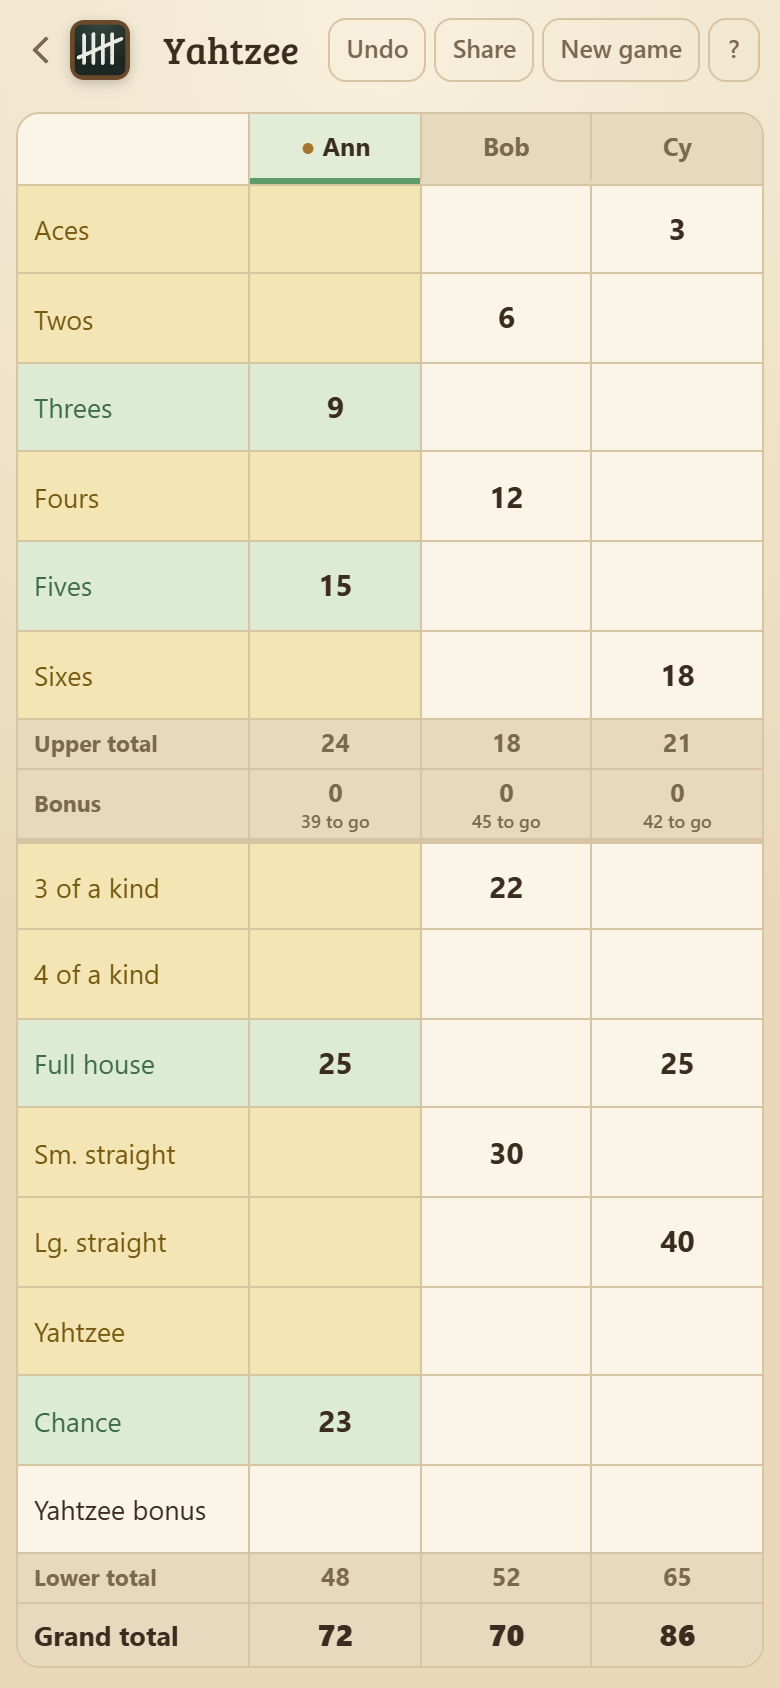
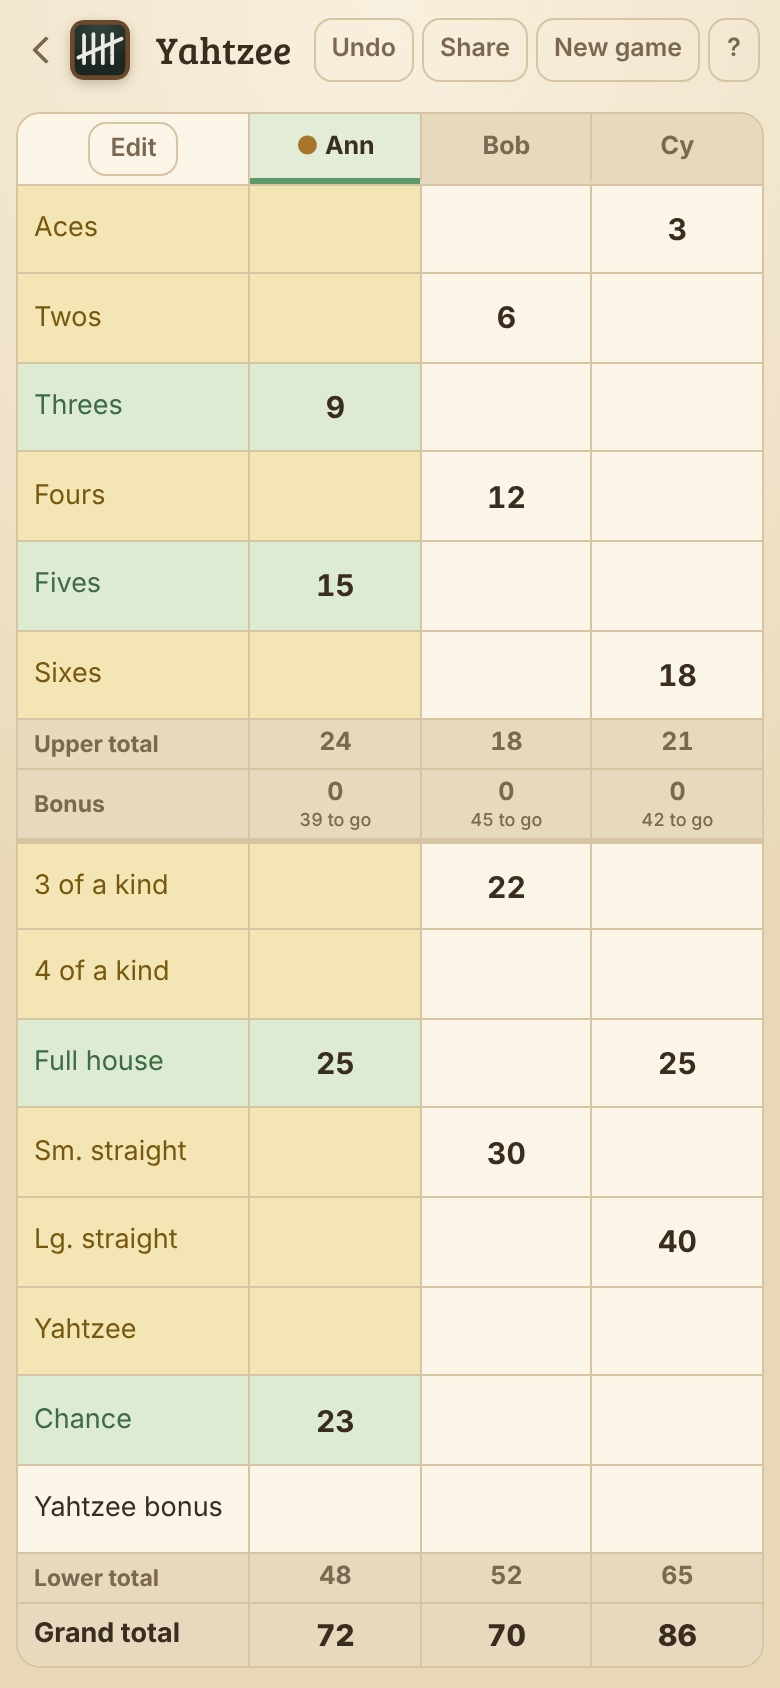
Yahtzee: players put in order at the setup, and moved or renamed mid-game
The setup's names are now a list with a grip on each, as in the Builder,
so the order of play can be set before starting; You are goes with its
name. Once a game has started, Edit in the sheet's top-left corner opens
the Edit game sheet. Moving a player moves everything kept by their place:
their boxes, extra Yahtzees, Undo's list, the column picked out and who
You are. The turn stays with whoever had it and passes on in the new
order. A shared game can't be edited, since the other phones know the
players by their place.

The profile was also always told the first player was you; it now gets
whoever was picked under You are.

Claude-Session: https://claude.ai/code/session_01CaxhvmkvV9J6Mab9YTVtfY

diff --git a/public/yahtzee/app.js b/public/yahtzee/app.js
@@ -149,28 +149,46 @@ function renderYou() {
   SCShare.youAre($('youRow'), names, setupMe, (i) => { setupMe = i; SCShare.rememberMe(i); renderYou(); });
 }
 
+const saveNames = () => { try { localStorage.setItem(NAMES_KEY, JSON.stringify(setupNames)); } catch (e) {} };
+
 function renderSetup() {
   $('pCount').textContent = setupN;
   $('pMinus').disabled = setupN <= 1;
   $('pPlus').disabled = setupN >= MAX_PLAYERS;
-  const box = $('names');
-  box.classList.toggle('one', setupN === 1);
-  box.innerHTML = '';
+  const list = $('names');
+  list.innerHTML = '';
   for (let i = 0; i < setupN; i++) {
+    const li = document.createElement('li');
+    const num = document.createElement('i');
+    num.textContent = `${i + 1}.`;
     const inp = document.createElement('input');
     inp.type = 'text'; inp.maxLength = 14; inp.autocomplete = 'off';
+    inp.className = 'roster-name';
     inp.placeholder = `Player ${i + 1}`;
     inp.value = setupNames[i] || '';
-    inp.addEventListener('input', () => {
-      setupNames[i] = inp.value;
-      try { localStorage.setItem(NAMES_KEY, JSON.stringify(setupNames)); } catch (e) {}
-      renderYou();
-    });
-    box.appendChild(inp);
+    inp.setAttribute('aria-label', `Player ${i + 1}'s name`);
+    inp.addEventListener('input', () => { setupNames[i] = inp.value; saveNames(); renderYou(); });
+    // a grip, to drag the player up or down the list (see /roster.js)
+    li.append(num, inp, SCRoster.grip(`Move ${(setupNames[i] || '').trim() || `Player ${i + 1}`}`));
+    list.appendChild(li);
   }
   renderYou();
   $('resumeBtn').classList.toggle('hidden', !load());
 }
+
+/* The order of the list is the order of play. You are goes with the name
+   it was on; the names kept past tonight's count stay where they are. */
+SCRoster.sortable($('names'), (from, to) => {
+  while (setupNames.length < setupN) setupNames.push('');
+  setupNames.splice(to, 0, setupNames.splice(from, 1)[0]);
+  if (setupMe !== null) {
+    const order = setupNames.map((_, i) => i);
+    order.splice(to, 0, order.splice(from, 1)[0]);
+    setupMe = order.indexOf(setupMe);
+    SCShare.rememberMe(setupMe);
+  }
+  saveNames(); renderSetup();
+});
 
 $('pMinus').onclick = () => { if (setupN > 1) { setupN--; renderSetup(); } };
 $('pPlus').onclick = () => { if (setupN < MAX_PLAYERS) { setupN++; renderSetup(); } };
@@ -228,8 +246,12 @@ function buildSheet() {
   // The rows: the player tiles, then the boxes sharing the height that is
   // left (never under 26px), the totals only as tall as their text.
   sheet.style.gridTemplateRows = ['auto', ...ROWS.map((r) => (r.total ? 'auto' : 'minmax(26px, 1fr)'))].join(' ');
+  // The corner, beside the names: Edit, for the players' order and names,
+  // changed in a sheet of their own (see editGame), as the top bar has no
+  // room left. Someone only watching has no use for it.
+  const edit = SCShare.watching ? '' : '<button class="edit-btn" id="editBtn">Edit</button>';
+  let html = `<div class="corner">${edit}</div>`;
   // a player's tile is just their name: the grand total is at the bottom
-  let html = '<div class="corner"></div>';
   S.names.forEach((name, p) => {
     html += `<button class="ptile" data-p="${p}"><span class="pname">${esc(name)}</span></button>`;
   });
@@ -247,6 +269,7 @@ function buildSheet() {
 }
 
 $('sheet').addEventListener('click', (e) => {
+  if (e.target.closest('#editBtn')) { editGame(); return; }
   const tile = e.target.closest('.ptile');
   // a phone that joined by seat keeps its own column picked out
   if (tile) { if (SCShare.seat() === null) { S.sel = Number(tile.dataset.p); save(); render(); } return; }
@@ -471,6 +494,44 @@ $('entryClose').onclick = closeEntry;
 $('entryOverlay').addEventListener('click', (e) => { if (e.target === $('entryOverlay')) closeEntry(); });
 $('entryEmpty').onclick = () => { setBox(entry.p, entry.id, null); done('Box emptied'); };
 
+/* ---------------- editing the game ----------------
+
+   Players can be put in another order, and renamed, once the game has
+   started (see /editgame.js). Everything the game keeps per player is kept
+   by their place, so all of it moves together: their boxes, their extra
+   Yahtzees, Undo's list, whose turn it is, the column picked out and who
+   You are. The turn stays with whoever had it, and passes on in the new
+   order; a game shared with other phones stays as it is, as they know the
+   players by their place too. */
+
+async function editGame() {
+  const locked = SCStore.get(S.id)?.share
+    ? 'This game is shared with other phones, which know the players by their place, so the players can’t be moved or renamed now.'
+    : null;
+  const got = await SCEditGame.open({ names: S.names, locked });
+  if (!got) return;
+  const moved = got.order.some((from, i) => from !== i);
+  const renamed = got.names.some((name, i) => name !== S.names[got.order[i]]);
+  if (!moved && !renamed) return;
+  reorder(got.order);
+  S.names = got.names;
+  save(); buildSheet(); render();
+  flash(moved ? `${S.names[S.cur]}'s turn` : 'Names changed');
+}
+
+// order[i] is the place the player now i-th had before.
+function reorder(order) {
+  const at = [];
+  order.forEach((from, i) => { at[from] = i; });
+  const where = (p) => (Number.isInteger(p) ? at[p] : p);
+  S.cells = order.map((from) => S.cells[from]);
+  S.ybonus = order.map((from) => S.ybonus[from]);
+  S.log = S.log.map((e) => ({ ...e, p: where(e.p), cur: where(e.cur), sel: where(e.sel) }));
+  S.cur = where(S.cur);
+  S.sel = where(S.sel);
+  S.me = where(S.me);
+}
+
 /* ---------------- undo, new game ---------------- */
 
 $('undoBtn').onclick = () => {
@@ -573,7 +634,8 @@ function toPayload() {
     game_type: 'yahtzee',
     config: { players: S.names.length },
     started_at: S.startedAt,
-    me_idx: 0,
+    // who You are, picked at the setup; No one leaves it to the first player
+    me_idx: Number.isInteger(S.me) ? S.me : 0,
     ended_at: S.over ? Date.now() : null,
     winner_idx: S.over && winners.length === 1 ? winners[0] : null,
     players: S.names.map((name, idx) => ({ idx, name })),

diff --git a/public/yahtzee/index.html b/public/yahtzee/index.html
@@ -34,11 +34,11 @@
 <link rel="preconnect" href="https://fonts.googleapis.com">
 <link rel="preconnect" href="https://fonts.gstatic.com" crossorigin>
 <link rel="stylesheet" href="https://fonts.googleapis.com/css2?family=Fredericka+the+Great&family=Josefin+Sans:wght@400;600;700&family=Bree+Serif&family=Kalam:wght@400;700&display=swap">
-<link rel="stylesheet" href="../shared.css?v=39">
+<link rel="stylesheet" href="../shared.css?v=40">
 <!-- the room this game is played in (data-room on the body), with any
      adjustments of this game's own at the top of style.css -->
 <link rel="stylesheet" href="../themes.css?v=7">
-<link rel="stylesheet" href="style.css?v=15">
+<link rel="stylesheet" href="style.css?v=16">
 </head>
 <body data-room="living" data-game="yahtzee">
 
@@ -66,7 +66,9 @@
         <button type="button" class="step" id="pPlus" aria-label="More players">+</button>
       </div>
     </div>
-    <div id="names" class="names"></div>
+    <!-- the order of the list is the order of play: each name has a grip
+         to drag it by (see /roster.js; the .roster styles are in /shared.css) -->
+    <ol id="names" class="roster"></ol>
   </div>
 
   <div class="card">
@@ -151,7 +153,9 @@
 <script src="/store.js?v=3"></script>
 <script src="/share.js?v=12"></script>
 <script src="/cloud.js?v=3"></script>
-<script src="app.js?v=22"></script>
+<script src="/roster.js?v=1"></script>
+<script src="/editgame.js?v=1"></script>
+<script src="app.js?v=23"></script>
 <script src="/pwa.js?v=1" defer></script>
 </body>
 </html>

diff --git a/public/yahtzee/style.css b/public/yahtzee/style.css
@@ -41,9 +41,7 @@ input::-webkit-outer-spin-button,input::-webkit-inner-spin-button{-webkit-appear
 .step{width:44px;height:40px;border-radius:10px;font-size:22px;font-weight:700;background:var(--bg2);border:1px solid var(--line)}
 .step:active{border-color:var(--green)}
 .step:disabled{opacity:.35}
-.names{display:grid;grid-template-columns:1fr 1fr;gap:6px}
-.names input{padding:10px;font-size:15px}
-.names.one{grid-template-columns:1fr}
+#names{margin-top:4px}
 
 /* ---------- The sheet ----------
    A grid like the paper one: box names down the left, a column per player.
@@ -76,7 +74,10 @@ body.playing .acct{display:none}
 .corner{background:var(--card);border-left:none}
 /* the box names stay put while the player columns scroll under them */
 .lab,.corner{position:sticky;left:0;z-index:1;box-shadow:1px 0 0 var(--line)}
-.corner{z-index:3}
+.corner{z-index:3;display:flex;align-items:center;justify-content:center}
+/* Edit, in the corner: a quiet button like the top bar's */
+.edit-btn{font-size:12.5px;font-weight:600;color:var(--dim);border:1px solid var(--line);border-radius:9px;padding:4px 10px}
+.edit-btn:active{background:var(--bg2);color:var(--txt)}
 
 .ptile{
   background:var(--bg2);padding:8px 3px 6px;display:flex;flex-direction:column;align-items:center;justify-content:center;

diff --git a/README.md b/README.md
@@ -84,7 +84,8 @@ public/
   shared.css      palette, reset and shared controls, used by every page
   themes.css      the rooms a game is played in: Parlor, Living Room, Workshop
   account.js      account bubble, injected into every page
-  roster.js       dragging a players' list into order: Tournaments, Builder
+  roster.js       dragging a players' list into order: Tournaments, Builder, Yahtzee
+  editgame.js     Edit game: a started game's players moved and renamed, in a sheet
   account/
     index.html    your profile: darts statistics, game history, My games
     profile.js
@@ -206,6 +207,7 @@ each other every few seconds, and the tests wait as a person would.
 | `sharing.mjs` | joining by seat, scoring only your own, scoring at once, the same cell from two phones, counters and live scores between phones, watching, Yahtzee |
 | `darts.mjs` | turns round the table by seat, darts mid-turn kept, a win reaching every phone |
 | `cribbage.mjs` | pegging by seat and at once, counting your own hand |
+| `yahtzee.mjs` | the players put in order at the setup, and moved and renamed mid-game with Edit: their scores, the turn, Undo and You going with them |
 | `server.mjs` | who may write, link cards, error reports, the daily job, the policy pages |
 | `offline.mjs` | every game opening with no signal, a game in progress by its link |
 | `tournament.mjs` | the draw, a match played in darts and its result read back, an undo, results set by hand, the home page |
